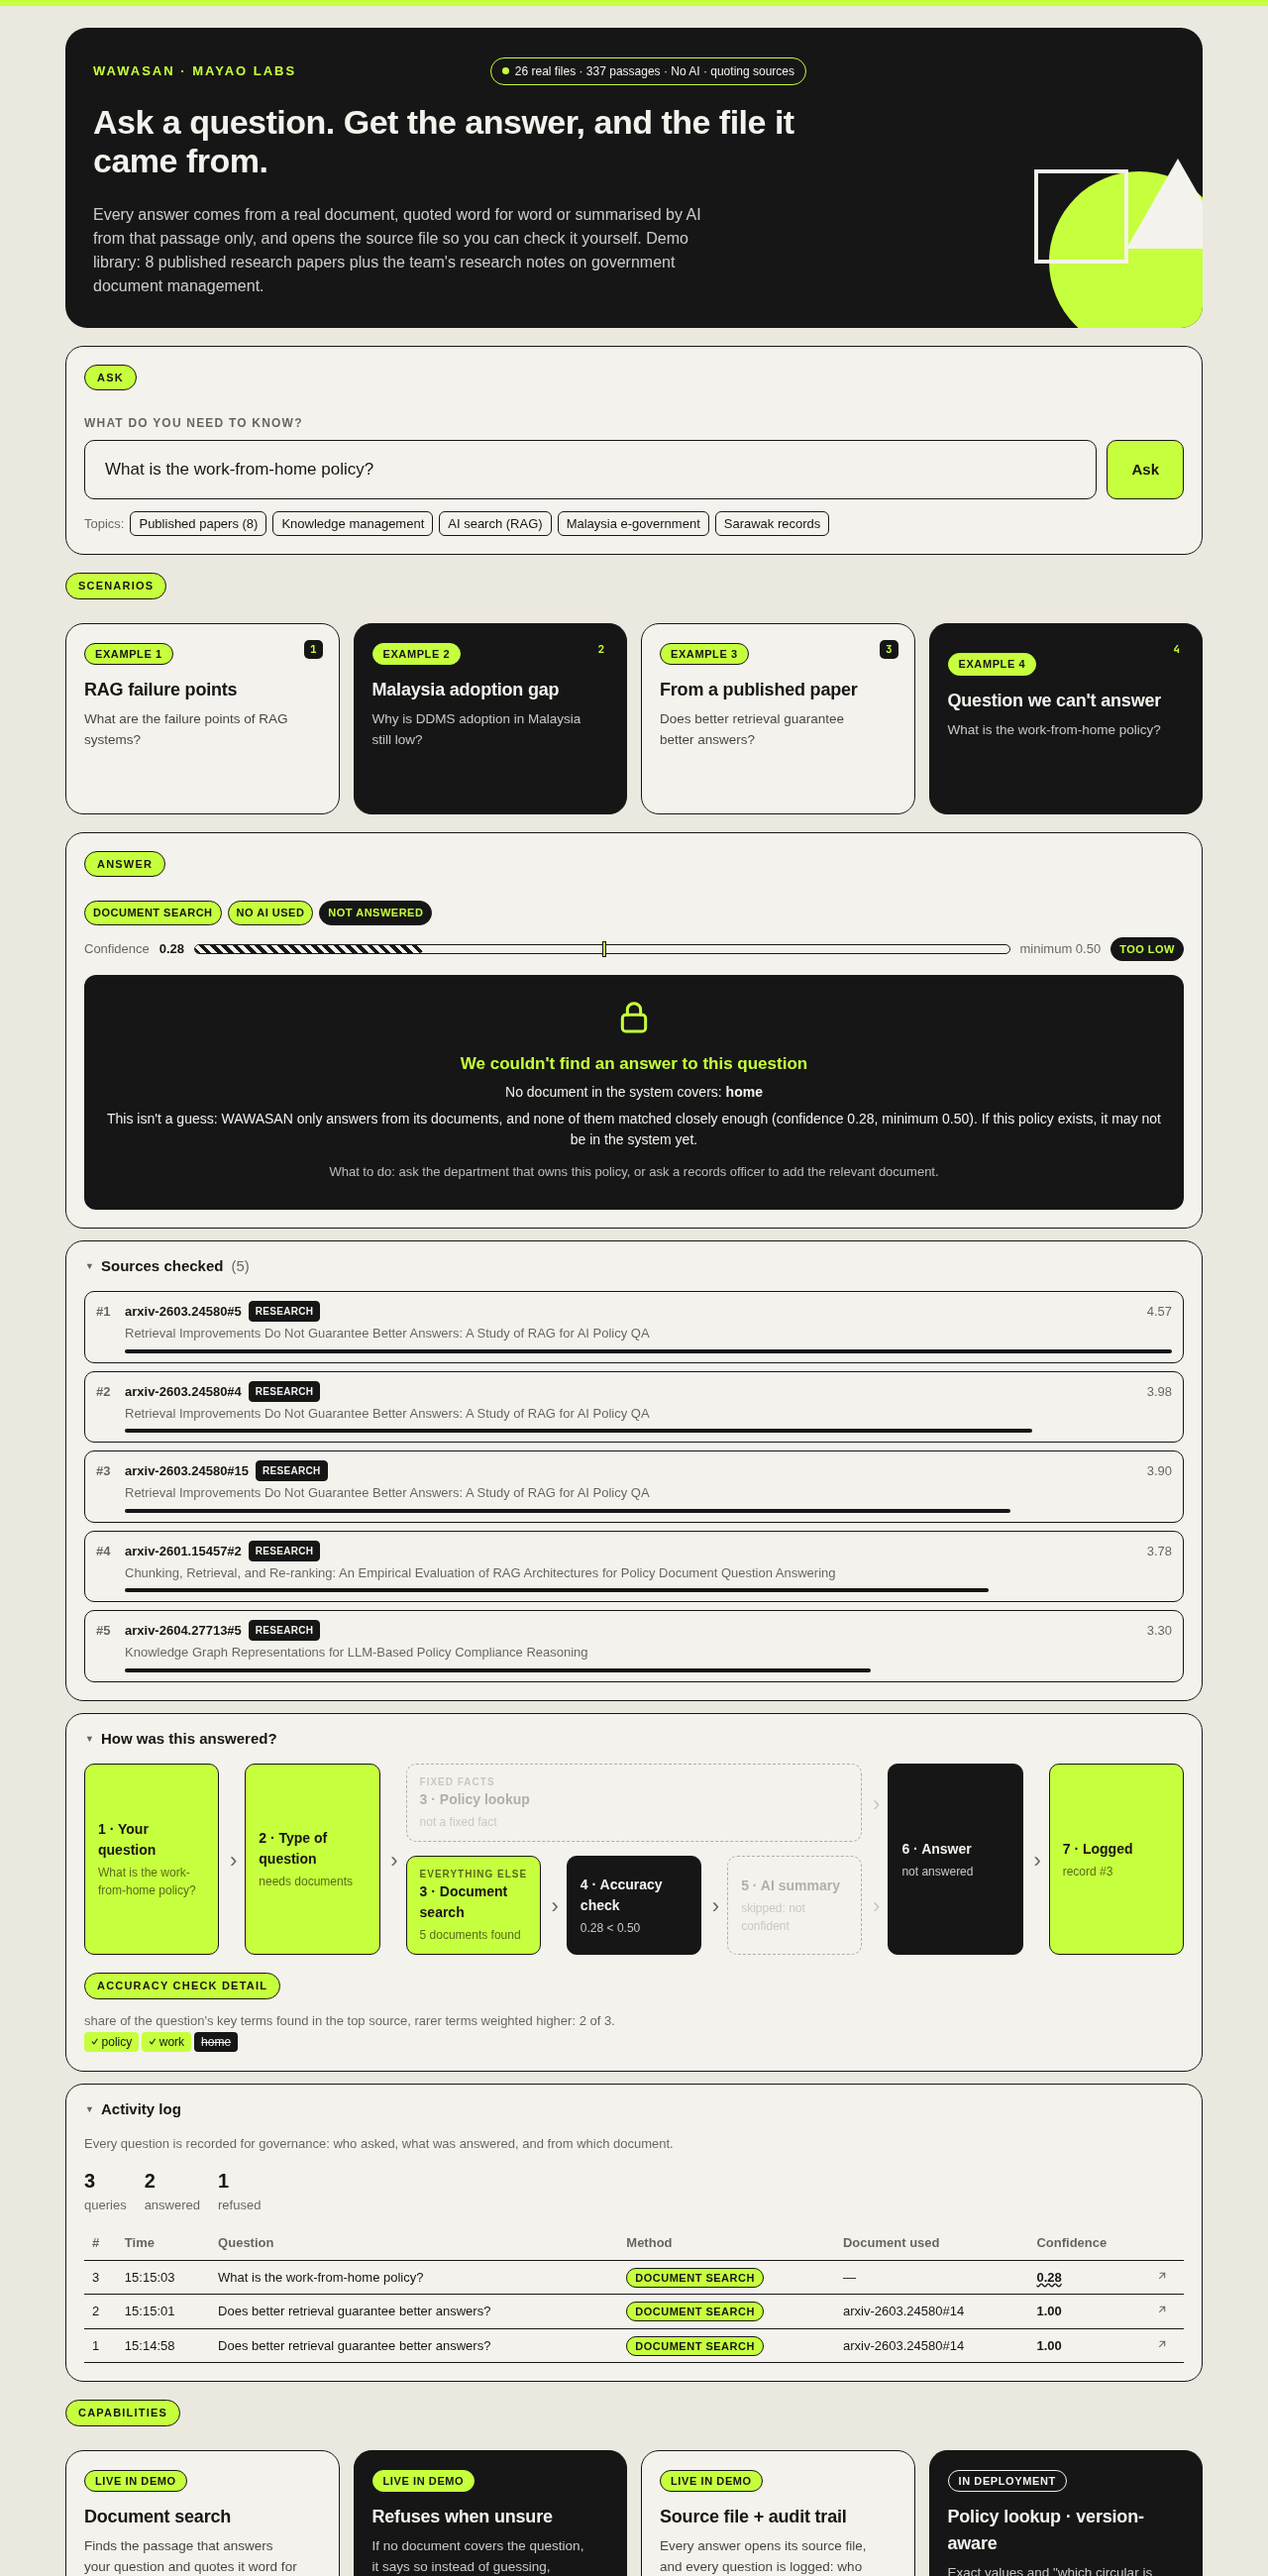
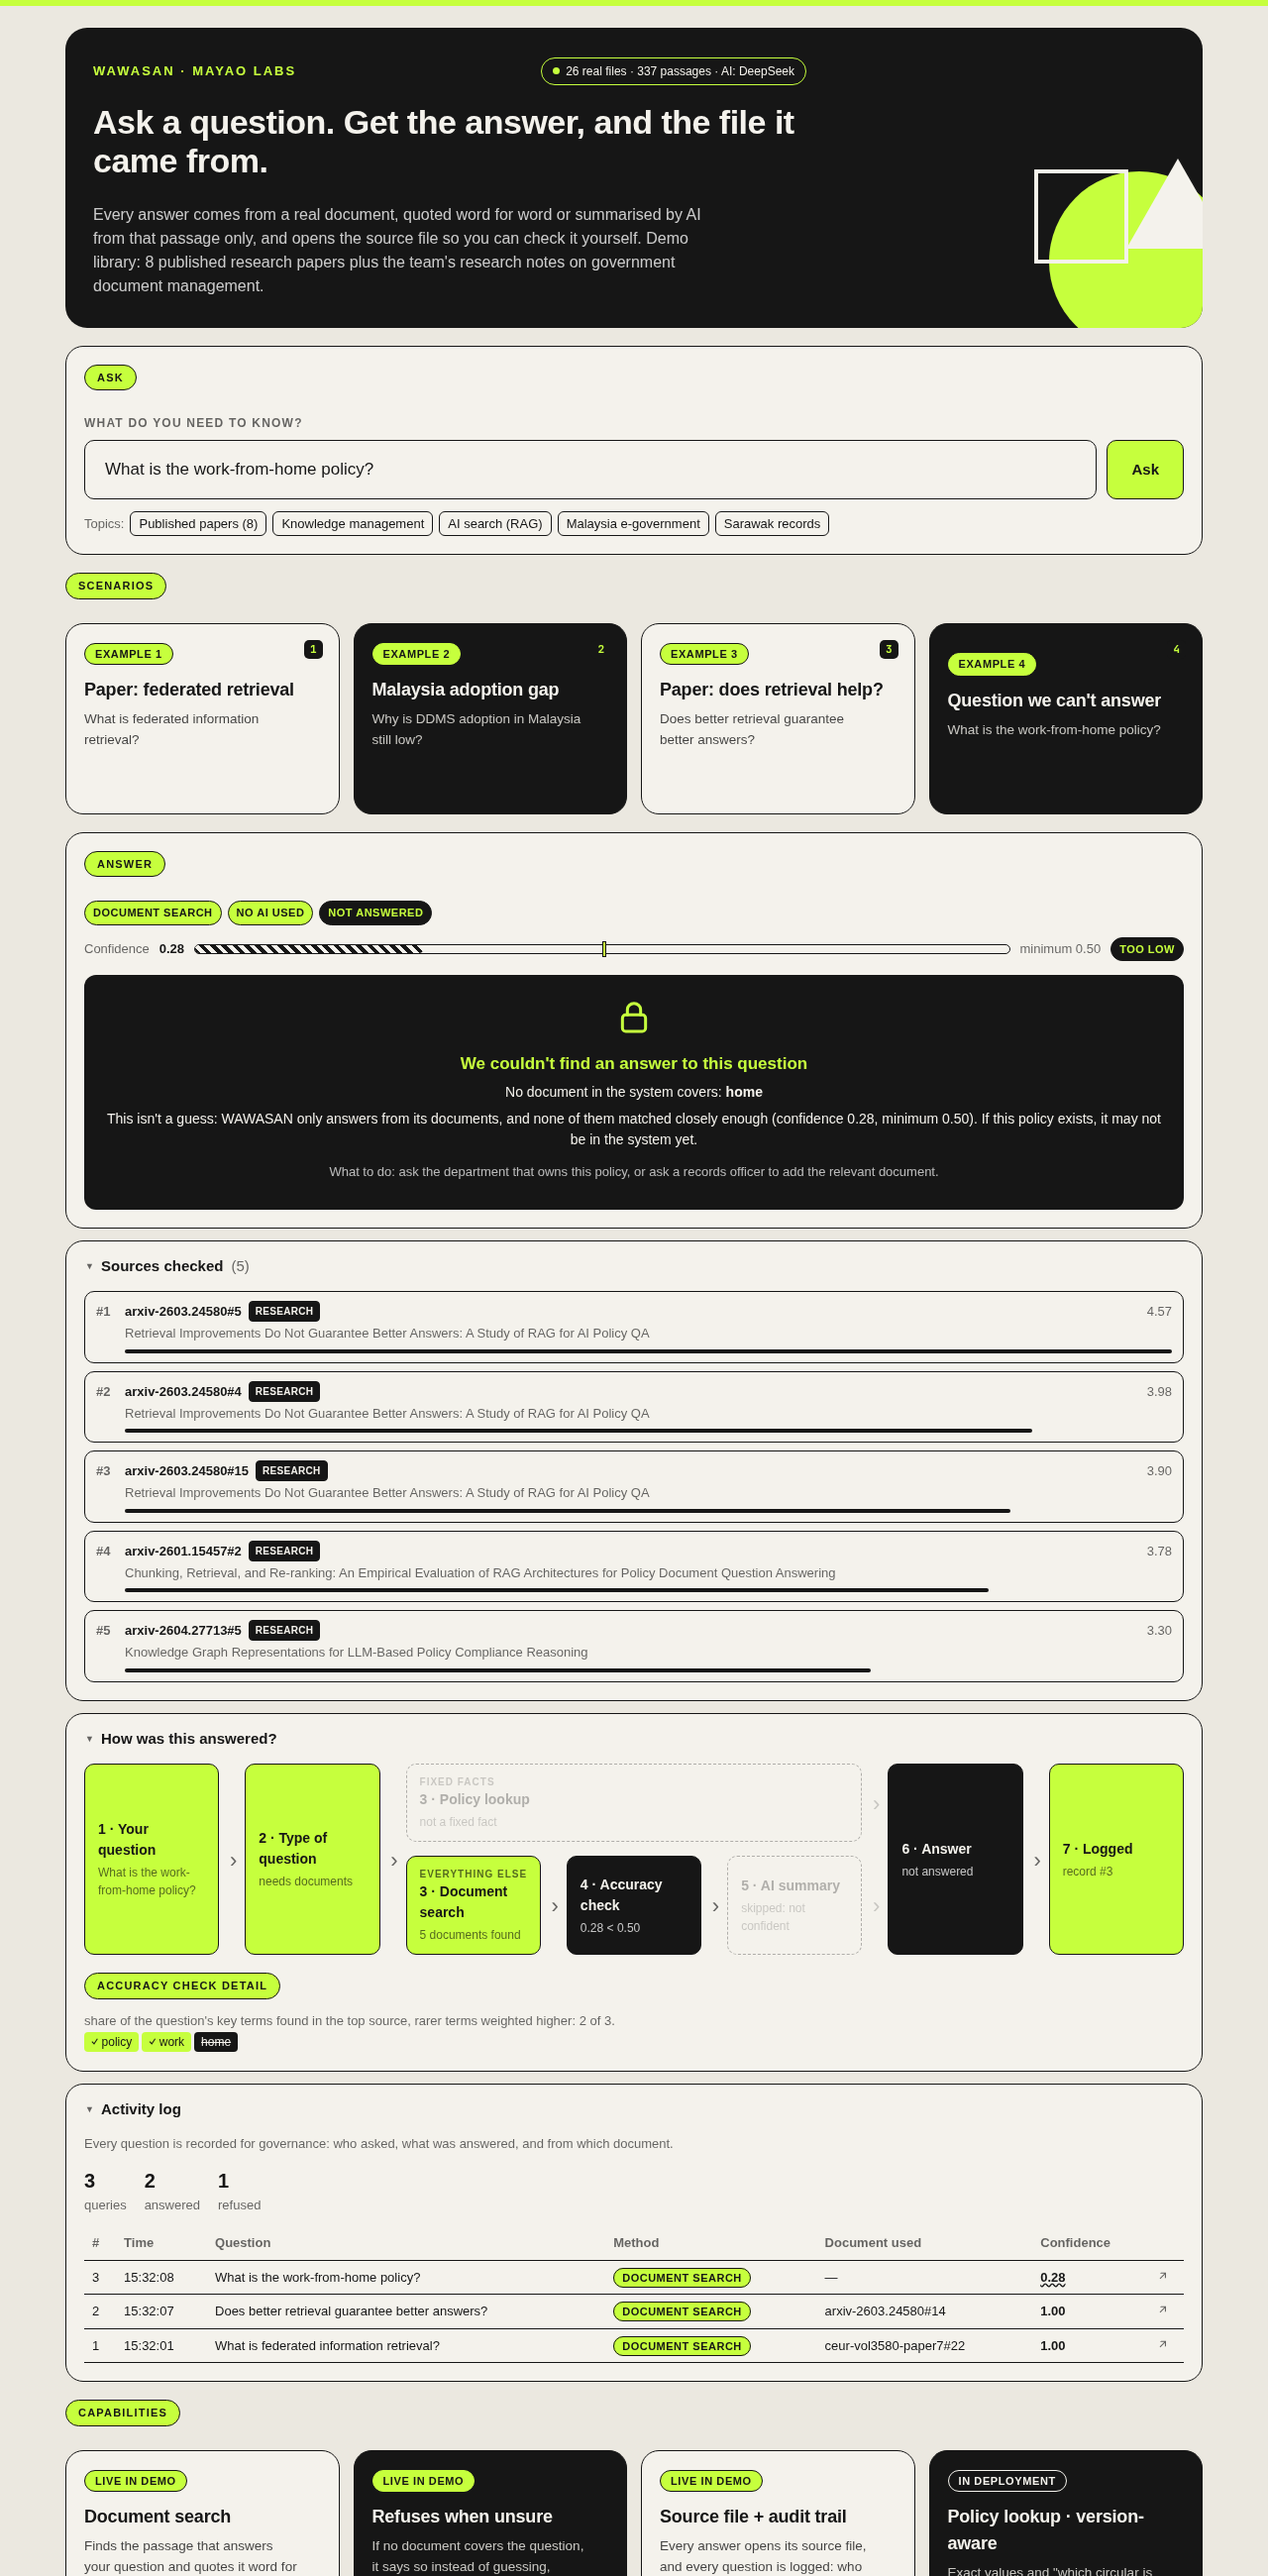
docs: refresh screenshots with real DeepSeek answers
Add an AI-declined screenshot and describe each one in the README.

diff --git a/README.md b/README.md
@@ -16,19 +16,25 @@ WAWASAN is an internal knowledge assistant for Sarawak civil servants. You ask a
 
 ## Screenshots
 
-**A cited answer with its source file:** the answer is quoted from the passage, and the file it came from opens below with that passage highlighted.
+All screenshots show real answers from DeepSeek (`deepseek-v4-flash`) over the real papers.
+
+**A cited answer, with the only text the AI was given beside it:** *"What is federated information retrieval?"* DeepSeek's summary on the left, the exact passage it received on the right (Melzer et al., CEUR-WS, page 9). Anyone can check that it added nothing.
 
 ![Cited answer with source file](demo/screenshots/1-cited-answer-with-source.png)
 
-**Click "Open source file" and the real file pops up,** with the passage the answer came from highlighted, and buttons to open or download the original:
+**Click "Open source file" and the real file pops up:** the PDF of Mathur et al. 2026, scrolled to the cited passage on page 4 (the Conclusion), with buttons to open or download the original.
 
 ![Source file pop-up](demo/screenshots/4-source-file-popup.png)
 
-**A question the documents don't cover:** the accuracy check refuses it before any AI is used.
+**When the passage doesn't answer, the AI declines:** for *"What are the failure points of RAG systems?"* the search found the Barnett et al. title page. DeepSeek read it, saw the answer wasn't there, and said so instead of answering from its own memory.
+
+![AI declined](demo/screenshots/5-ai-declined.png)
+
+**A question no document covers:** the accuracy check refuses it before any AI is used.
 
 ![Refused question](demo/screenshots/2-refused-question.png)
 
-**The full pipeline,** opened via "How was this answered?", which the presenter can expand:
+**The full pipeline,** opened via "How was this answered?": sources checked, the accuracy check with matched words, the AI step with its response time, and the activity log.
 
 ![Full pipeline](demo/screenshots/3-full-pipeline.png)
 
